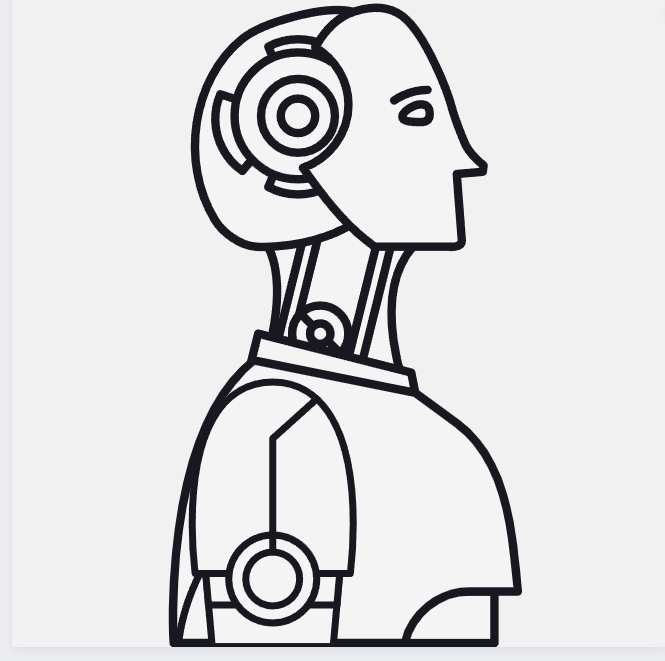
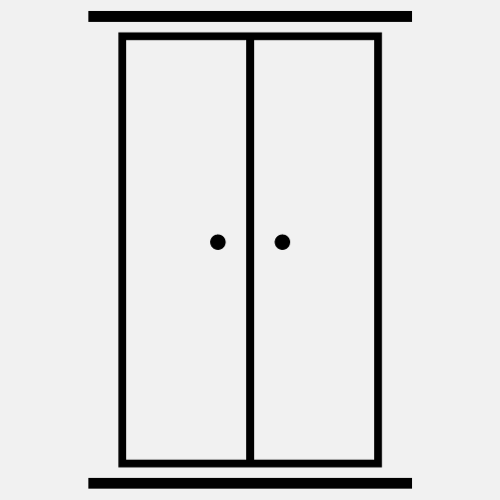
Fixed GridWorldModel

Changed region(s): [[0.18, 0.0, 0.84, 0.99]]

diff --git a/software/GridWorldModel/GridWorldModel.py b/software/GridWorldModel/GridWorldModel.py
@@ -28,12 +28,12 @@ class GridWorldModel:
                                                (i + 1) * self.square, (j + 1) * self.square)
 
     def load_images(self):
-        img = ["1", "2", "3", "4", "5"]
-        for piece in img:
+        images = ["1", "2", "3", "4", "5","7","11"]
+        for piece in images:
             img_path = f"./software/GridWorldModel/imagenes/{piece}.png"
-            img = tk.PhotoImage(file=img_path)
-            img = img.subsample(int(img.width() / self.square), int(img.height() / self.square))
-            self.images[piece] = img
+            image = tk.PhotoImage(file=img_path)
+            formattedImage = image.subsample(int(image.width() / self.square), int(image.height() / self.square))
+            self.images[piece] = formattedImage
 
     def show_piece(self):
         for index_i, i in enumerate(self.matrix):
